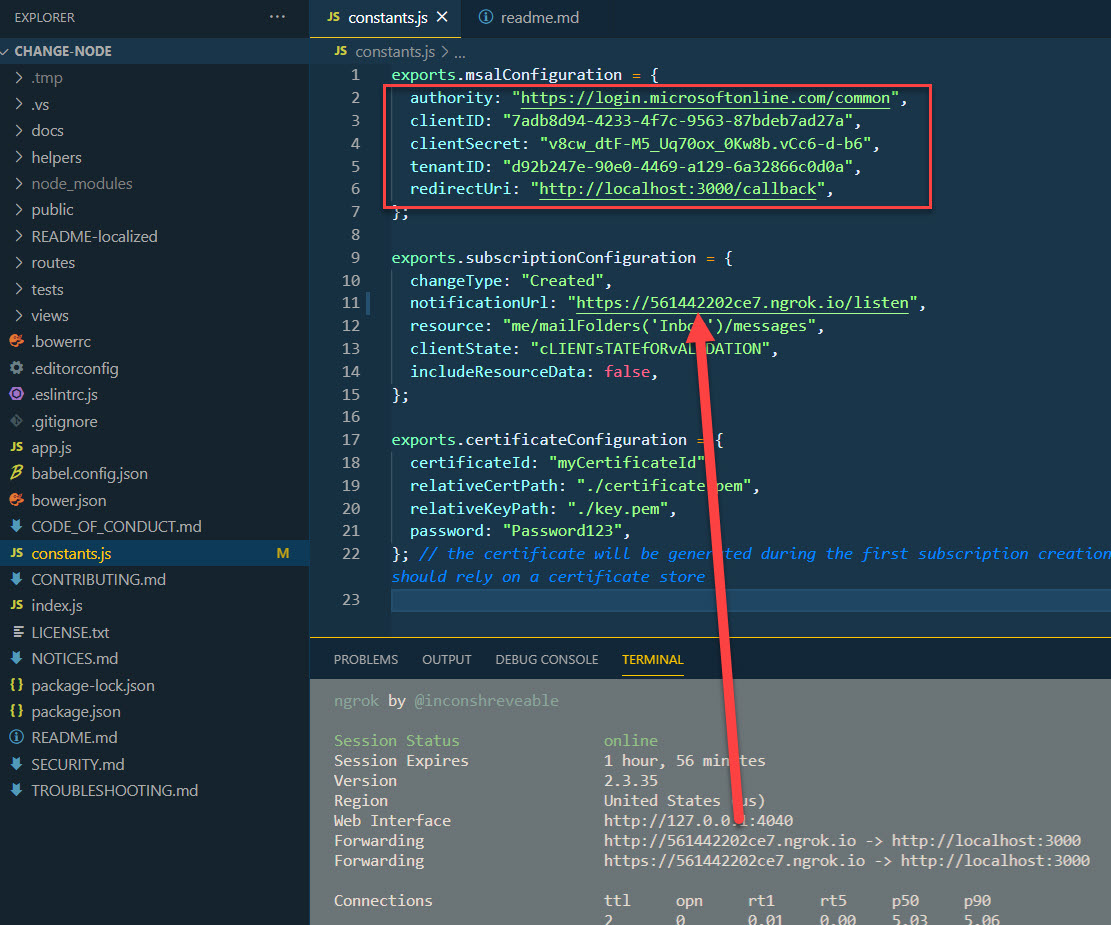
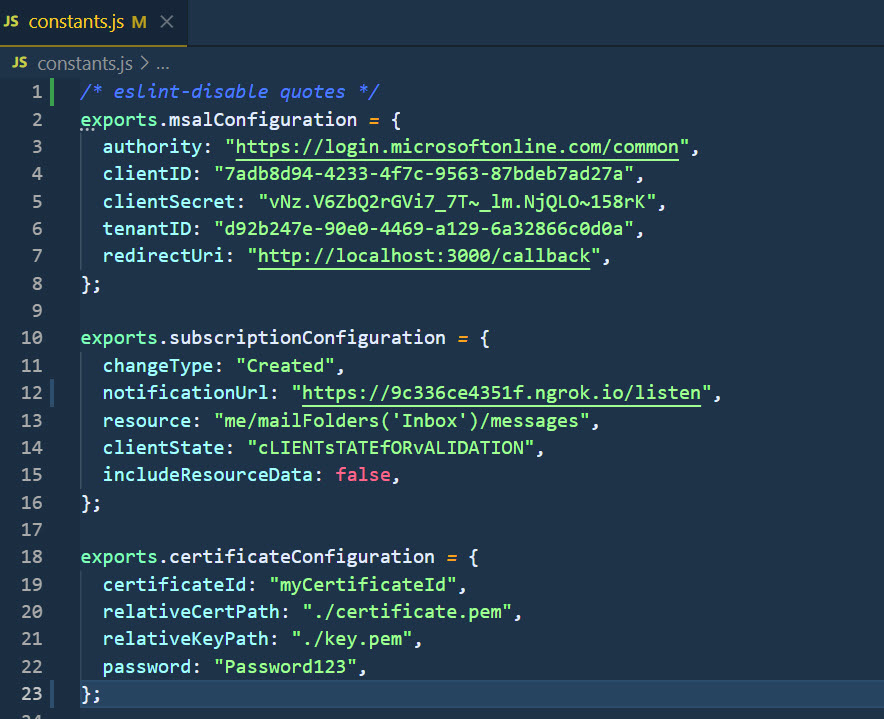
docs

diff --git a/Demos/02-Graph/Demo-02/change-node/constants.js b/Demos/02-Graph/Demo-02/change-node/constants.js
@@ -1,3 +1,4 @@
+/* eslint-disable quotes */
 exports.msalConfiguration = {
   authority: "https://login.microsoftonline.com/common",
   clientID: "7adb8d94-4233-4f7c-9563-87bdeb7ad27a",
@@ -8,7 +9,7 @@ exports.msalConfiguration = {
 
 exports.subscriptionConfiguration = {
   changeType: "Created",
-  notificationUrl: "https://561442202ce7.ngrok.io/listen",
+  notificationUrl: "https://9c336ce4351f.ngrok.io/listen",
   resource: "me/mailFolders('Inbox')/messages",
   clientState: "cLIENTsTATEfORvALIDATION",
   includeResourceData: false,
@@ -19,4 +20,4 @@ exports.certificateConfiguration = {
   relativeCertPath: "./certificate.pem",
   relativeKeyPath: "./key.pem",
   password: "Password123",
-}; // the certificate will be generated during the first subscription creation, production solutions should rely on a certificate store
+};

diff --git a/Demos/02-Graph/Demo-02/change-node/.eslintrc.js b/Demos/02-Graph/Demo-02/change-node/.eslintrc.js
@@ -2,20 +2,21 @@ module.exports = {
   env: {
     browser: true,
     node: true,
-    es6: true
+    es6: true,
   },
-  parser: 'babel-eslint',
-  extends: 'airbnb/legacy',
+  parser: "babel-eslint",
+  extends: "airbnb/legacy",
   rules: {
-    'prefer-template': 0,
-    'comma-dangle': 0,
-    'func-names': 0,
-    'prefer-arrow-callback': 0,
-    'new-cap': 0,
-    'no-param-reassign': 0,
-    'no-use-before-define': 0,
-    'linebreak-style': 0,
-    'no-plusplus': 0,
-    'max-len': 0
-  }
+    "prefer-template": 0,
+    "comma-dangle": 0,
+    "func-names": 0,
+    "prefer-arrow-callback": 0,
+    "new-cap": 0,
+    "no-param-reassign": 0,
+    "no-use-before-define": 0,
+    "linebreak-style": 0,
+    "no-plusplus": 0,
+    "max-len": 0,
+    "quote-props": 0,
+  },
 };

diff --git a/Demos/02-Graph/Demo-02/readme.md b/Demos/02-Graph/Demo-02/readme.md
@@ -4,22 +4,22 @@
 
 Using the Microsoft Graph API, an app can subscribe to changes on the following resources:
 
-- Cloud printing printer
-- Cloud printing printTaskDefinition
-- Content within the hierarchy of any folder driveItem on a user's personal OneDrive
-- Content within the hierarchy of the root folder driveItem on OneDrive for Business
-- Group
-- Microsoft 365 group conversation
-- Outlook event
-- Outlook message
-- Outlook personal contact
-- Security alert
-- SharePoint list
-- Teams callRecord
-- Teams chatMessage
-- Teams presence (preview)
-- TodoTask (preview)
-- User
+-   Cloud printing printer
+-   Cloud printing printTaskDefinition
+-   Content within the hierarchy of any folder driveItem on a user's personal OneDrive
+-   Content within the hierarchy of the root folder driveItem on OneDrive for Business
+-   Group
+-   Microsoft 365 group conversation
+-   Outlook event
+-   Outlook message
+-   Outlook personal contact
+-   Security alert
+-   SharePoint list
+-   Teams callRecord
+-   Teams chatMessage
+-   Teams presence (preview)
+-   TodoTask (preview)
+-   User
 
 ```json
 POST https://graph.microsoft.com/v1.0/subscriptions
@@ -37,14 +37,22 @@ App Registration:
 
 ![change-app.jpg](_images/change-app.jpg)
 
+Use Ngrok to provide an adressable endpoint. Use Endpoint in constants.js:
+
+```
+ngrok http 3000 -host-header=rewrite
+```
+
+![ngrok](_images/ngrok.jpg)
+
 Update Config in `constants.js`:
 
 ![config.jpg](_images/config.jpg)
 
-Start Ngrok
+Start app in another terminal
 
 ```
-ngrok http 3000 -host-header=rewrite
+npm run start
 ```
 
 Note: Sample taken from [here](https://github.com/microsoftgraph/nodejs-webhooks-rest-sample). A .Net version is available [here](https://github.com/microsoftgraph/msgraph-training-changenotifications/tree/master/demos/03-track-changes)

diff --git a/Demos/02-Graph/Demo-01/readme.md b/Demos/02-Graph/Demo-01/readme.md
@@ -14,24 +14,32 @@ https://graph.microsoft.com/v1.0/users?$orderby=displayName
 
 $top:
 
-```
+````
 https://graph.microsoft.com/v1.0/users?$top=2
-```
+```-
 
 $skip:
 
-```
+````
+
 https://graph.microsoft.com/v1.0/me/events?$orderby=createdDateTime& desc$skip=10
+
 ```
 
 $expand:
 
 ```
+
 https://graph.microsoft.com/v1.0/me/drive/root?$expand=children
+
 ```
 
 $search:
 
 ```
+
 https://graph.microsoft.com/v1.0/me/messages?$search="pizza"
+
+```
+
 ```
